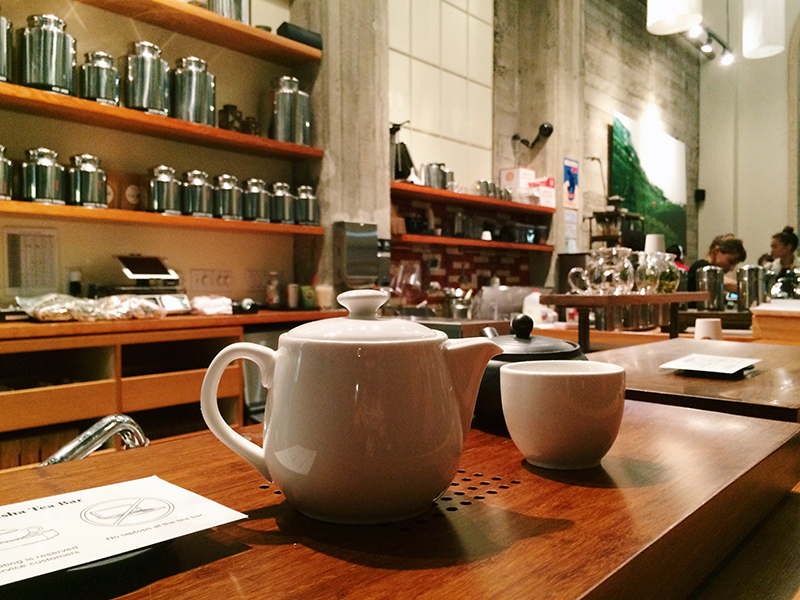
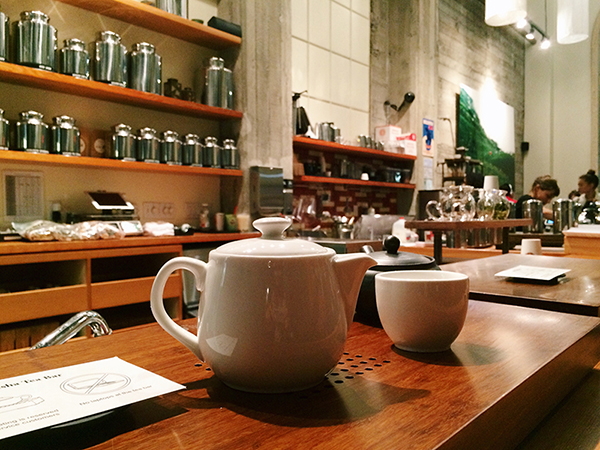
Resized images in gallery

Changed region(s): [[0.15, 0.7156, 0.18, 0.7467], [0.12, 0.6844, 0.15, 0.7156]]

diff --git a/tidyup.html b/tidyup.html
@@ -51,7 +51,7 @@
         </section>
         <section id="project-wrapper">
             <div class="project-image">
-                <img src="images/projects/tidyup/tidyup_screenshot.png" alt="TidyUp Screenshot">
+                <img src="images/projects/tidyup/tidyup_screenshot.jpg" alt="TidyUp Screenshot">
             </div>
             <div class="project-image">
                 <img src="images/projects/tidyup/tidyup_mockup.png" alt="TidyUp Mockup">

diff --git a/css/style.css b/css/style.css
@@ -253,7 +253,7 @@ section {
 .project-description-name {
     padding-bottom: 16px;
     font-size: 56px;
-    font-weight: 600;
+    font-weight: 500;
 }
 
 .project-description-content {
